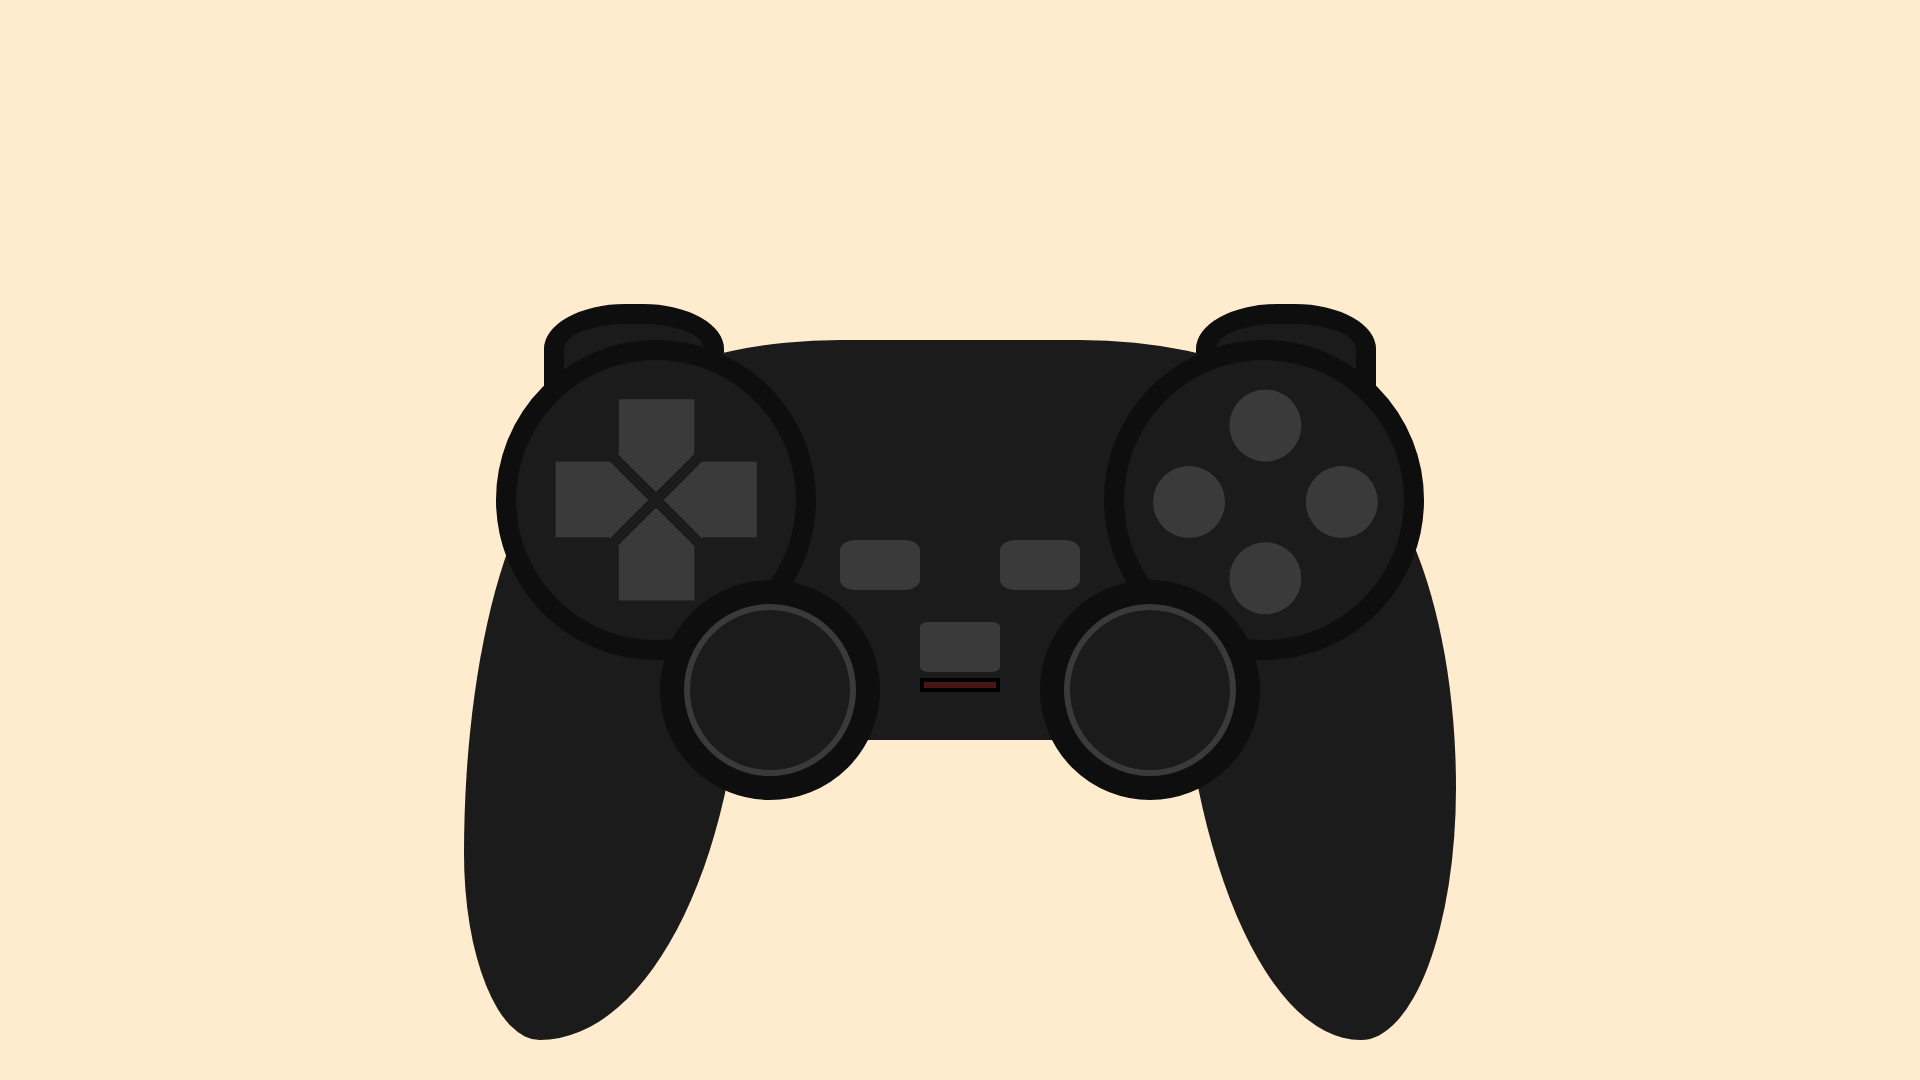
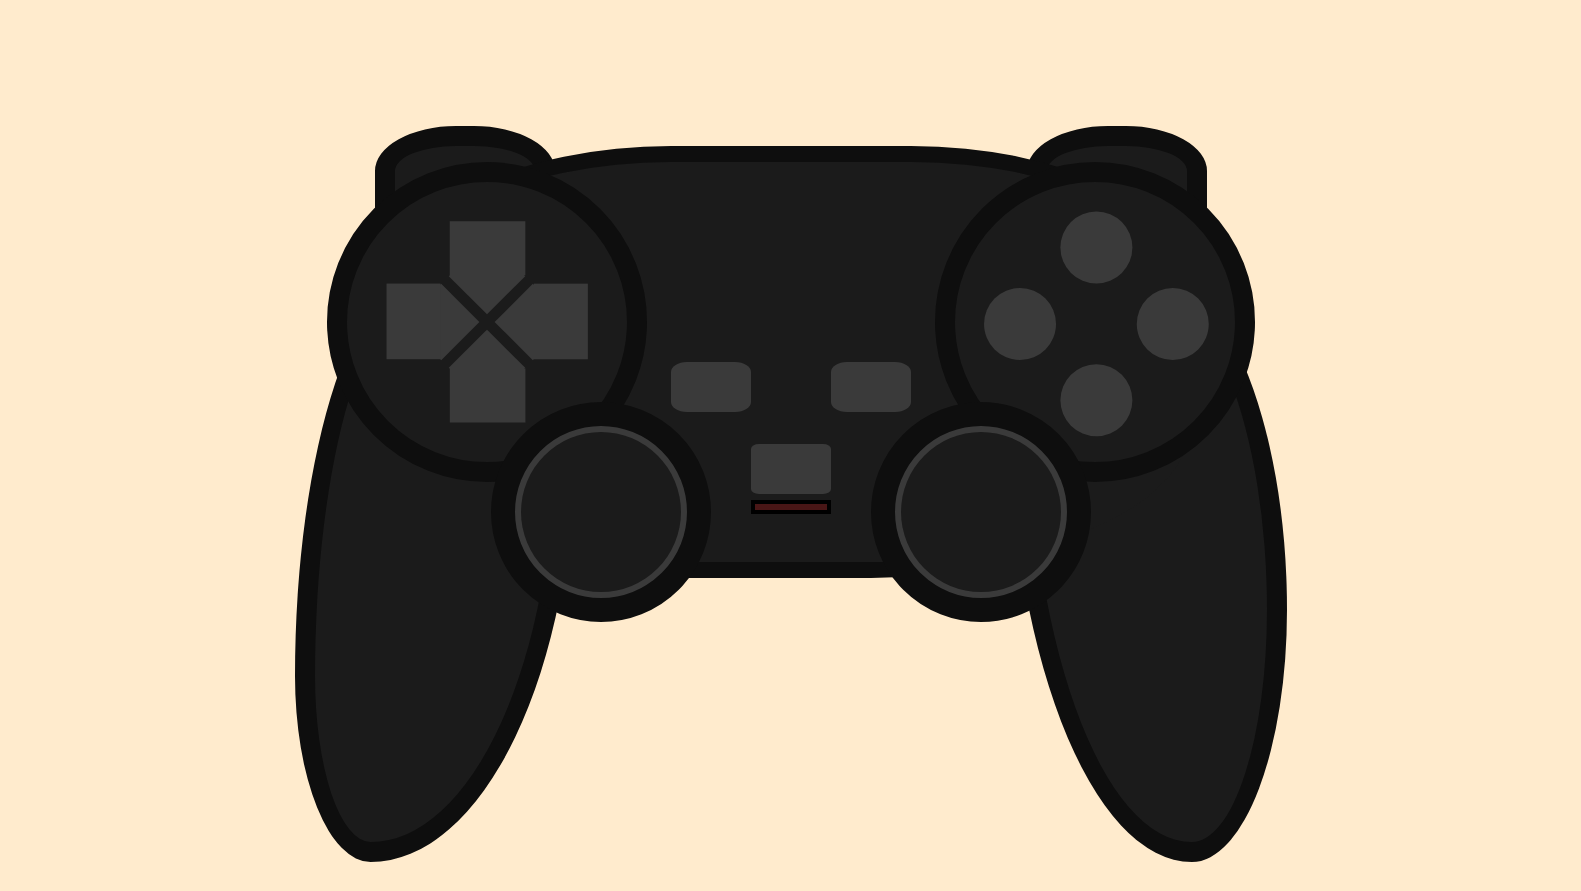
Ajuste na bordas

Changed region(s): [[0.186, 0.1212, 0.8368, 0.9697]]

diff --git a/videogame/styles.scss b/videogame/styles.scss
@@ -19,6 +19,7 @@ body{
   background: rgb(27,27,27);
   border-radius: 35%;
   position: relative;
+  box-shadow: -20px 8px rgb(14,14,14), 0px -8px rgb(14,14,14);
 
   &::before{
     content: "";
@@ -29,6 +30,7 @@ body{
     left: -12%;
     background: rgb(27,27,27);
     border-radius: 49% 51% 73% 27% / 69% 29% 71% 31%;
+    border: 10px solid rgb(14, 14, 14);
   }
   &::after{
     content: "";
@@ -39,6 +41,7 @@ body{
     right: -12%;
     background: rgb(27,27,27);
     border-radius: 47% 53% 34% 66% / 20% 58% 42% 80%;
+    border: 10px solid rgb(14, 14, 14);
     z-index: -1;
   }
   

diff --git a/videogame/styles.css b/videogame/styles.css
@@ -25,6 +25,8 @@ body {
   background: #1b1b1b;
   border-radius: 35%;
   position: relative;
+  -webkit-box-shadow: -20px 8px #0e0e0e, 0px -8px #0e0e0e;
+          box-shadow: -20px 8px #0e0e0e, 0px -8px #0e0e0e;
 }
 
 .container::before {
@@ -36,6 +38,7 @@ body {
   left: -12%;
   background: #1b1b1b;
   border-radius: 49% 51% 73% 27% / 69% 29% 71% 31%;
+  border: 10px solid #0e0e0e;
 }
 
 .container::after {
@@ -47,6 +50,7 @@ body {
   right: -12%;
   background: #1b1b1b;
   border-radius: 47% 53% 34% 66% / 20% 58% 42% 80%;
+  border: 10px solid #0e0e0e;
   z-index: -1;
 }
 
